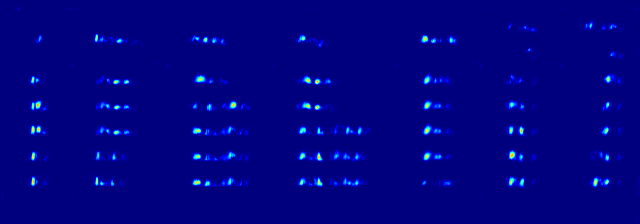
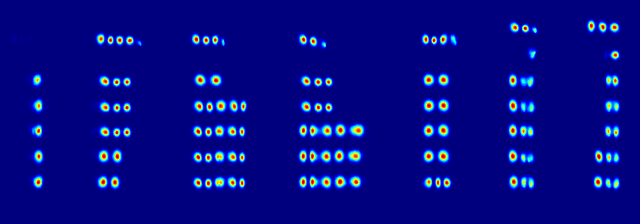
Finish test version

diff --git a/src/craft/utils.rs b/src/craft/utils.rs
@@ -1,4 +1,4 @@
-use std::collections::HashMap;
+use std::{collections::HashMap, time::Instant};
 
 use burn::{prelude::Backend, tensor::Tensor};
 use connected::{connected_components_with_stats, ConnectedComponentsResult};
@@ -8,6 +8,7 @@ use imageproc::{
     contours::find_contours, definitions::Image, distance_transform::Norm, geometry::min_area_rect,
     morphology::dilate_mut, point::Point, region_labelling::Connectivity,
 };
+use rayon::prelude::*;
 
 pub fn adjust_coordinates(
     mut boxes: HashMap<u32, [Point<f32>; 4]>,
@@ -33,11 +34,13 @@ pub fn get_det_boxes<B: Backend>(
     let shape = text_map.shape().dims::<4>();
     let [_, height, width, _] = shape;
 
+    let threshold_start = Instant::now();
     let text_score = text_map.clone().greater_equal_elem(low_text).int();
     let link_score = link_map.clone().greater_equal_elem(link_threshold).int();
 
     let combined = (text_score.clone() + link_score.clone()).clamp(0, 1);
     let data = combined.to_data().convert::<u8>().to_vec::<u8>().unwrap();
+    println!("Threshold time: {:?}", Instant::now() - threshold_start);
     let text_score_comb = GrayImage::from_vec(width as u32, height as u32, data).unwrap();
 
     let ConnectedComponentsResult {
@@ -45,6 +48,7 @@ pub fn get_det_boxes<B: Backend>(
         num_labels,
         labels,
     } = connected_components_with_stats(&text_score_comb, Connectivity::Four, Luma([0]));
+    let sync_start = Instant::now();
     let text_map_data = text_map.into_data().convert::<f32>().to_vec::<f32>();
     let text_map =
         FloatGrayImage::from_vec(width as u32, height as u32, text_map_data.unwrap()).unwrap();
@@ -53,47 +57,73 @@ pub fn get_det_boxes<B: Backend>(
     let text_score = GrayImage::from_vec(width as u32, height as u32, text_score.unwrap()).unwrap();
     let link_score = link_score.into_data().convert::<u8>().to_vec::<u8>();
     let link_score = GrayImage::from_vec(width as u32, height as u32, link_score.unwrap()).unwrap();
+    println!("Syncing data time: {:?}", Instant::now() - sync_start);
 
-    let mut boxes = HashMap::new();
+    let boxes = unsafe {
+        (1..num_labels)
+            .into_par_iter()
+            .filter_map(|k| {
+                let size = stats.area[k as usize];
+                if size < 10 {
+                    return None;
+                }
 
-    unsafe {
-        for k in 1..num_labels {
-            let size = stats.area[k as usize];
-            if size < 10 {
-                continue;
-            }
+                let max = text_map.enumerate_pixels().filter_map(|(x, y, p)| {
+                    (labels.unsafe_get_pixel(x, y) == Luma([k])).then_some(FloatOrd(p.0[0]))
+                });
+                let max = max.max().unwrap().0;
 
-            let max = text_map.enumerate_pixels().filter_map(|(x, y, p)| {
-                (labels.unsafe_get_pixel(x, y) == Luma([k])).then_some(FloatOrd(p.0[0]))
-            });
-            let max = max.max().unwrap().0;
+                if max < text_threshold as f32 {
+                    return None;
+                }
 
-            if max < text_threshold as f32 {
-                continue;
-            }
+                let mut seg_map = seg_map(&labels, k, &text_score, &link_score);
+                let x = stats.left[k as usize];
+                let y = stats.top[k as usize];
+                let w = stats.right[k as usize] - x;
+                let h = stats.bottom[k as usize] - y;
 
-            let mut seg_map = seg_map(&labels, k, &text_score, &link_score);
-            let x = stats.left[k as usize];
-            let y = stats.top[k as usize];
-            let w = stats.right[k as usize] - x;
-            let h = stats.bottom[k as usize] - y;
+                let niter = ((size as f32 * w.min(h) as f32 / (w * h) as f32).sqrt()) as u32;
+                dilate_mut(&mut seg_map, Norm::L1, (1 + niter) as u8);
 
-            let niter = ((size as f32 * w.min(h) as f32 / (w * h) as f32).sqrt() * 2.0) as u32;
-            dilate_mut(&mut seg_map, Norm::L1, (1 + niter) as u8);
+                let contours = find_contours::<i32>(&seg_map);
+                let [a, b, c, d] = min_area_rect(&contours[0].points);
 
-            let contours = find_contours::<i32>(&seg_map);
-            let [a, b, c, d] = min_area_rect(&contours[0].points);
+                let as_float = |p: Point<i32>| Point {
+                    x: p.x as f32,
+                    y: p.y as f32,
+                };
 
-            let as_float = |p: Point<i32>| Point {
-                x: p.x as f32,
-                y: p.y as f32,
-            };
+                let [a, b, c, d] = [as_float(a), as_float(b), as_float(c), as_float(d)];
 
-            boxes.insert(k, [as_float(a), as_float(b), as_float(c), as_float(d)]);
-        }
-    }
+                let width = norm(a - b);
+                let height = norm(b - c);
+                let box_ratio = width.max(height) / (width.min(height) + 1e-5);
+                //println!("Width: [{:?}, {:?}, {:?}, {:?}]", a, b, c, d);
+                let bbox = if (1.0 - box_ratio).abs() <= 0.1 {
+                    let l = a.x.min(b.x).min(c.x).min(d.x);
+                    let r = a.x.max(b.x).max(c.x).max(d.x);
+                    let t = a.y.min(b.y).min(c.y).min(d.y);
+                    let b = a.y.max(b.y).max(c.y).max(d.y);
+                    [p(l, t), p(r, t), p(r, b), p(l, b)]
+                } else {
+                    [a, b, c, d]
+                };
+
+                Some((k, bbox))
+            })
+            .collect()
+    };
 
     boxes
+}
+
+fn p(x: f32, y: f32) -> Point<f32> {
+    Point { x, y }
+}
+
+fn norm(point: Point<f32>) -> f32 {
+    (point.x.abs().sqrt() + point.y.abs().sqrt()).sqrt()
 }
 
 fn seg_map(
@@ -112,7 +142,7 @@ fn seg_map(
 }
 
 mod connected {
-    use std::cmp;
+    use std::cmp::{self};
 
     use image::{GenericImage, GenericImageView, ImageBuffer, Luma};
     use imageproc::{
@@ -134,6 +164,7 @@ mod connected {
         pub labels: Image<Luma<u32>>,
     }
 
+    #[allow(clippy::needless_range_loop)]
     pub fn connected_components_with_stats<I>(
         image: &I,
         conn: Connectivity,

diff --git a/src/craft/mod.rs b/src/craft/mod.rs
@@ -132,7 +132,8 @@ impl<B: Backend> Slice1<B> {
             self.feat8,
             Relu,
             self.feat10,
-            self.feat11
+            self.feat11,
+            Relu
         )
     }
 }
@@ -141,13 +142,13 @@ impl<B: Backend> Slice2<B> {
     pub fn forward(&self, x: Tensor<B, 4>) -> Tensor<B, 4> {
         sequential!(
             x,
-            Relu,
             self.feat13,
             self.feat14,
             self.feat15,
             Relu,
             self.feat17,
-            self.feat18
+            self.feat18,
+            Relu
         )
     }
 }
@@ -156,7 +157,6 @@ impl<B: Backend> Slice3<B> {
     pub fn forward(&self, x: Tensor<B, 4>) -> Tensor<B, 4> {
         sequential!(
             x,
-            Relu,
             self.feat20,
             self.feat21,
             Relu,
@@ -165,7 +165,8 @@ impl<B: Backend> Slice3<B> {
             self.feat25,
             Relu,
             self.feat27,
-            self.feat28
+            self.feat28,
+            Relu
         )
     }
 }
@@ -174,7 +175,6 @@ impl<B: Backend> Slice4<B> {
     pub fn forward(&self, x: Tensor<B, 4>) -> Tensor<B, 4> {
         sequential!(
             x,
-            Relu,
             self.feat30,
             self.feat31,
             Relu,

diff --git a/src/test_craft.rs b/src/test_craft.rs
@@ -44,10 +44,12 @@ pub fn test_net<B: Backend>(
     let score_text = y.clone().narrow(3, 0, 1);
     let score_link = y.clone().narrow(3, 1, 1);
 
+    // Sync to properly measure time of each step
+    let _ = score_text.to_data();
+    let _ = score_link.to_data();
+
     let net_time = Instant::now() - start;
     println!("Network took {:?}", net_time);
-
-    println!("Shape: {:?}", score_text.shape());
 
     let image_text = float_to_color_map(score_text.clone());
     let image_link = float_to_color_map(score_link.clone());
@@ -57,8 +59,8 @@ pub fn test_net<B: Backend>(
 
     let start = Instant::now();
     let boxes = get_det_boxes(
-        score_text,
-        score_link,
+        score_text.clone(),
+        score_link.clone(),
         text_threshold,
         link_threshold,
         low_text,

diff --git a/src/lib.rs b/src/lib.rs
@@ -14,3 +14,16 @@ macro_rules! sequential {
         }
     };
 }
+
+#[macro_export]
+macro_rules! stats {
+    ($name:literal, $x:expr) => {{
+        print!($name);
+        println!(
+            " min: {}, max: {}, mean: {}",
+            $x.clone().min().into_scalar(),
+            $x.clone().max().into_scalar(),
+            $x.clone().mean().into_scalar()
+        )
+    }};
+}
